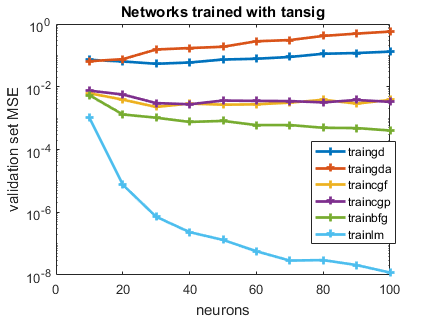
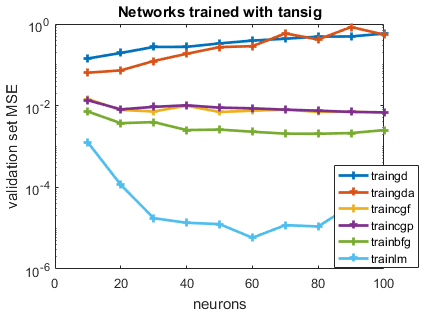
ass1 done

diff --git a/assignement1/1-2 Backpropagation.m b/assignement1/1-2 Backpropagation.m
@@ -302,12 +302,13 @@ end
 
 %% Best model surface
 load('data_personal_regression_problem.mat');
+load('personal_regression_run_final_models2.mat');
 Tnew = (6 * T1 + 6 * T2 + 6 * T3 + 4 * T4 + 2 * T5) / (6 + 6 + 6 + 4 + 2);
 p = randperm(length(Tnew)); Tnew = Tnew(p); X1 = X1(p); X2 = X2(p);
 p = [[X1(trInd)';X2(trInd)'],[X1(valInd)';X2(valInd)'],[X1(testInd)';X2(testInd)']];
 t = [Tnew(trInd)',Tnew(valInd)',Tnew(testInd)'];
 
-load('personal_regression_run_final_models2.mat');
+
 net = feedforwardnet([30,30], 'trainlm');
 net.divideFcn = 'divideind';
 net.divideParam.trainInd = 1:length(trInd);
@@ -319,11 +320,12 @@ out = sim(net,[X1(testInd)';X2(testInd)']);
 %%
 TFs = {'tansig', 'logsig', 'radbas'};
 algs = {'traingd', 'traingda', 'traincgf', 'traincgp', 'trainbfg', 'trainlm'};
-load('personal_regression_run_reduced.mat');
+load('personal_regression_run_reduced2.mat');
+
 % res_testmses = permute(res_testmses, [1,3,2]);
 % res_epochs = permute(res_epochs, [1,3,2]);
 figure;
-semilogy(10:10:100, res_testmses(:,:,1), 'linewidth', 2,'marker', '+'); xlabel('neurons');ylabel('validation set MSE'); legend(algs); title('Networks trained with tansig');
+semilogy(10:10:100, res_valmses, 'linewidth', 2,'marker', '+'); xlabel('neurons');ylabel('validation set MSE'); legend(algs); title('Networks trained with tansig');
 %  text(10:10:100, res_testmses(:,1,6), num2str(res_epochs(:,1,6)))
 
 figure
@@ -336,14 +338,14 @@ title('Advanced architectures');
 figure; subplot(1,3,1); % Original surface
 T = delaunay(X1,X2);
 TO = triangulation(T,X1,X2,Tnew);
-trisurf(TO, 'EdgeColor', 'none'); hold on;
+trisurf(TO, 'EdgeColor', 'none'); zlim([2 5]);hold on;
 scatter3(X1(testInd), X2(testInd), Tnew(testInd), '.r');
 title('Original surface');
 
 subplot(1,3,2); % Best model surface
 T = delaunay(X1(testInd),X2(testInd));
 TO = triangulation(T,X1(testInd),X2(testInd),out');
-trisurf(TO, 'EdgeColor', 'none'); hold on;
+trisurf(TO, 'EdgeColor', 'none'); zlim([2 5]);hold on;
 scatter3(X1(testInd), X2(testInd), Tnew(testInd), '.r');
 title('Approximation');
 
